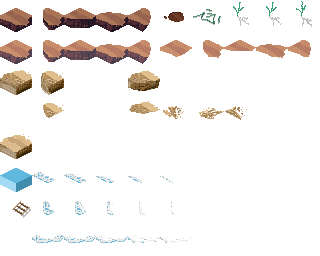
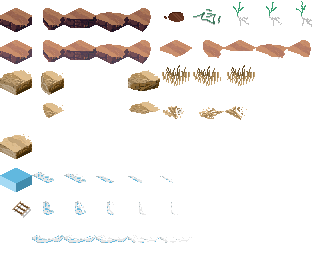
Added animated tall grass

Changed region(s): [[0.5, 0.25, 0.8125, 0.3438]]

diff --git a/wyndOS/games/kora/src/scenes/Start.js b/wyndOS/games/kora/src/scenes/Start.js
@@ -61,6 +61,7 @@ export class Start extends Phaser.Scene {
 
         const tileAnimations = {
             9:  [7, 8, 7, 9],
+            27: [25, 26, 25, 27],
             55: [51, 52, 53, 54, 55, 54, 53, 52],
             65: [61, 62, 63, 64, 65, 64, 63, 62],
             75: [71, 72, 73, 74, 75, 74, 73, 72]
